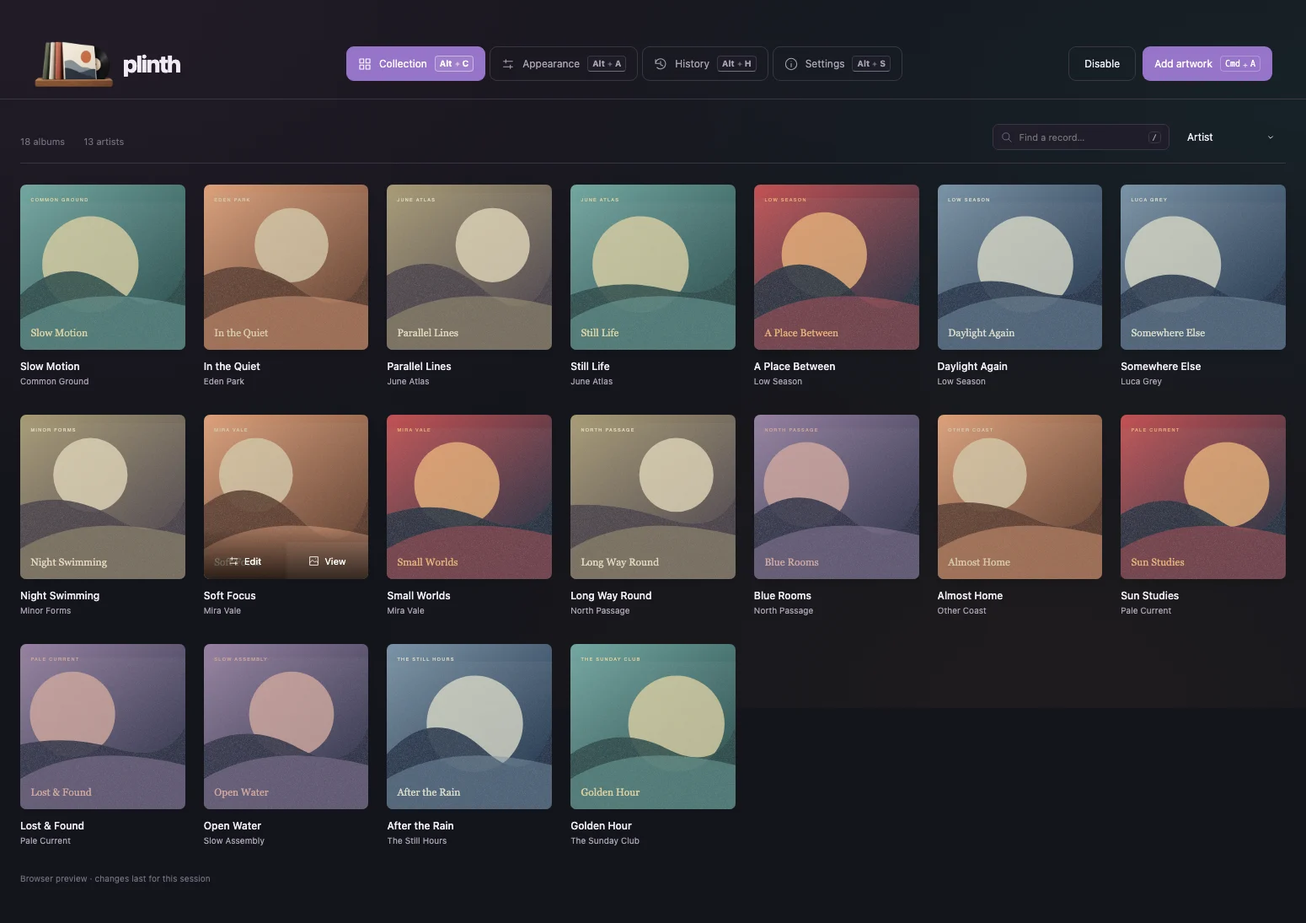
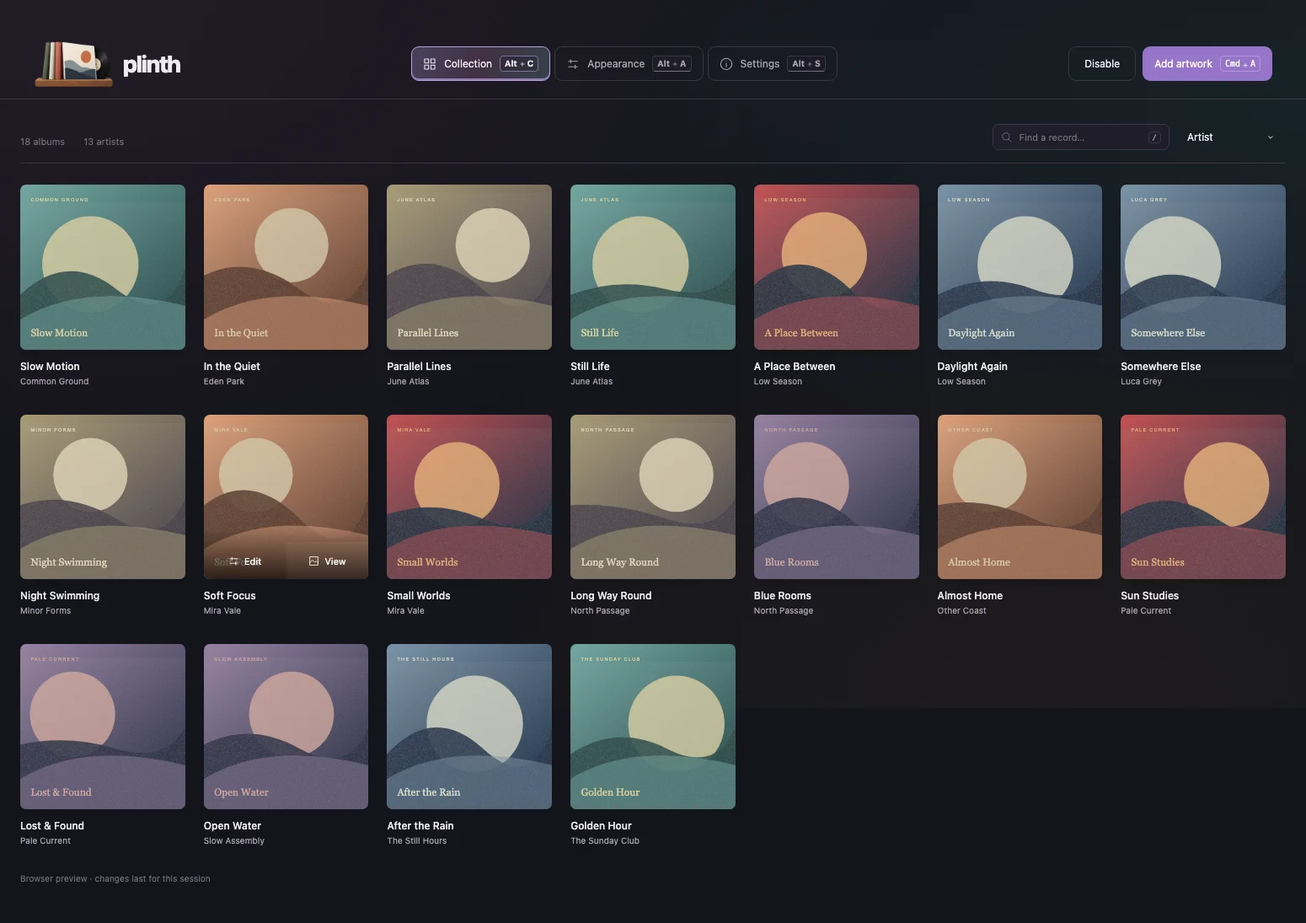
Move History into Settings and soften selected tabs with iridescent fill

Changed region(s): [[0.2477, 0.0311, 0.6813, 0.0932]]

diff --git a/src/app.css b/src/app.css
@@ -1,7 +1,7 @@
 *{box-sizing:border-box} :root{font-family:-apple-system,BlinkMacSystemFont,'Segoe UI',sans-serif;font-size:14px;color-scheme:dark;--background:radial-gradient(ellipse at 5% 0%,#58334d38,transparent 48%),radial-gradient(ellipse at 100% 15%,#28686829,transparent 44%),radial-gradient(ellipse at 80% 100%,#65482d21,transparent 48%),#14151c;--paper:#201d29e6;--paper-strong:#292531;--ink:#f0ebf3;--muted:#aaa1b3;--faint:#726d7e;--line:#3c3547;--accent:#b99ce7;--accent-bg:#9774c9;--danger:#ef9baa}
 :root[data-theme=light]{color-scheme:light;--background:radial-gradient(ellipse at 0% 0%,#efdce9,transparent 55%),radial-gradient(ellipse at 100% 10%,#dcefee,transparent 50%),#f7f5f3;--paper:#fffdfcd9;--paper-strong:#f0ebf1;--ink:#2b2632;--muted:#7f7387;--faint:#93899a;--line:#dfd6e4;--accent:#74509e;--accent-bg:#805ba9;--danger:#a94057}
 body{margin:0;background:var(--background);background-attachment:fixed;color:var(--ink);min-width:360px}button,input,select{font:inherit}button,select{cursor:pointer}button{display:inline-flex;align-items:center;justify-content:center;gap:9px;border:1px solid var(--line);border-radius:9px;background:transparent;color:var(--ink);padding:10px 14px;transition:background .15s,border-color .15s}button:hover:not(:disabled){background:var(--paper-strong);border-color:var(--faint)}button:disabled{opacity:.5;cursor:default}button.primary{background:var(--accent-bg);border-color:transparent;color:#fff}button.primary:hover:not(:disabled){background:color-mix(in srgb,var(--accent-bg) 85%,white)}button.icon-only{width:34px;height:34px;padding:7px;border-color:transparent;background:transparent}button.text-button{padding:0;border:0;color:var(--accent);background:none;font-size:12px}button:focus-visible,a:focus-visible,input:focus-visible,select:focus-visible{outline:1px solid var(--faint);outline-offset:2px}svg{display:block;flex:0 0 auto}h1,h2,h3,p{margin:0}h1{font-size:34px;font-weight:550;letter-spacing:-1.2px;line-height:1.3}h2{font-size:17px;font-weight:550;letter-spacing:-.3px}small{font-size:12px;color:var(--muted)}input,select{border:1px solid var(--line);background:var(--paper);color:var(--ink);border-radius:8px;padding:10px 12px;min-width:0}select{font-size:12px}label{display:grid;gap:8px;font-size:12px}a{color:inherit;text-decoration:none}kbd{font:10px ui-monospace,monospace;padding:3px 5px;border:1px solid var(--line);border-radius:4px;color:var(--muted)}kbd.shortcut{display:inline-flex;align-items:center;gap:3px;white-space:nowrap}.shortcut-plus{opacity:.75;transform:translateY(1.5px)}
-.titlebar{height:34px;padding:0 27px 0 86px;display:flex;align-items:center;justify-content:space-between;color:var(--faint);font-size:10px;letter-spacing:.2px;user-select:none}.local-indicator{display:flex;gap:6px;align-items:center}.local-indicator>span{width:4px;height:4px;border-radius:50%;background:#85b7a0}header{height:84px;border-bottom:1px solid var(--line);display:flex;align-items:center;justify-content:space-between;gap:24px;padding:0 40px}.header-actions{display:flex;align-items:stretch;gap:8px;flex-shrink:0}.header-actions>button{font-size:12px;padding:10px 13px}.brand{display:flex;align-items:center;gap:10px;font-size:28px;font-weight:760;letter-spacing:-1.4px}.brand-mark{--brand-logo-size:40px;display:flex;align-items:center;justify-content:center;flex-shrink:0;width:var(--brand-logo-size);height:40px}.brand-mark[data-logo="logo-1"]{--brand-logo-size:96px}.brand-mark[data-logo="logo-2"]{--brand-logo-size:72px;margin-right:-8px}.brand-mark svg{width:var(--brand-logo-size);height:var(--brand-logo-size);align-self:center}.version{font-size:9px;font-weight:400;letter-spacing:0;color:var(--faint);align-self:start;padding-top:6px}nav{display:flex;gap:5px}nav button{font-size:12px;border-color:var(--line);padding:10px 13px;color:var(--muted)}nav button:not(.active){background:transparent}nav button.active,nav button.active:hover:not(:disabled){background:var(--accent-bg);border-color:var(--accent-bg);color:#fff}nav button>svg{width:16px;height:16px}main{max-width:1440px;margin:0 auto;padding:40px 44px 0}.page-heading{display:flex;justify-content:space-between;align-items:center;gap:20px;margin-bottom:36px}.eyebrow{display:block;color:var(--faint);font-size:9px;letter-spacing:1.7px;font-weight:550;margin-bottom:10px}.page-heading p{margin-top:9px;font-size:13px;color:var(--muted);line-height:1.6}.status-pill{font-size:11px;border-radius:22px;padding:9px 13px;background:var(--paper);color:var(--muted);white-space:nowrap}.status-pill svg{width:12px;height:12px;margin-left:5px}.status-dot{width:6px;height:6px;border-radius:50%;background:#83c9ac;box-shadow:0 0 8px #83c9ac22}.paused .status-dot{background:var(--faint)}
+.titlebar{height:34px;padding:0 27px 0 86px;display:flex;align-items:center;justify-content:space-between;color:var(--faint);font-size:10px;letter-spacing:.2px;user-select:none}.local-indicator{display:flex;gap:6px;align-items:center}.local-indicator>span{width:4px;height:4px;border-radius:50%;background:#85b7a0}header{height:84px;border-bottom:1px solid var(--line);display:flex;align-items:center;justify-content:space-between;gap:24px;padding:0 40px}.header-actions{display:flex;align-items:stretch;gap:8px;flex-shrink:0}.header-actions>button{font-size:12px;padding:10px 13px}.brand{display:flex;align-items:center;gap:10px;font-size:28px;font-weight:760;letter-spacing:-1.4px}.brand-mark{--brand-logo-size:40px;display:flex;align-items:center;justify-content:center;flex-shrink:0;width:var(--brand-logo-size);height:40px}.brand-mark[data-logo="logo-1"]{--brand-logo-size:96px}.brand-mark[data-logo="logo-2"]{--brand-logo-size:72px;margin-right:-8px}.brand-mark svg{width:var(--brand-logo-size);height:var(--brand-logo-size);align-self:center}.version{font-size:9px;font-weight:400;letter-spacing:0;color:var(--faint);align-self:start;padding-top:6px}nav{display:flex;gap:5px}nav button{font-size:12px;border-color:var(--line);padding:10px 13px;color:var(--muted)}nav button:not(.active){background:transparent}nav button.active,nav button.active:hover:not(:disabled){background:linear-gradient(115deg,color-mix(in srgb,var(--accent) 28%,var(--paper)),color-mix(in srgb,#c882ab 20%,var(--paper)) 48%,color-mix(in srgb,#72bab5 24%,var(--paper)));border-color:var(--accent);color:var(--ink);box-shadow:inset 0 -2px 0 color-mix(in srgb,var(--accent) 65%,transparent)}nav button>svg{width:16px;height:16px}main{max-width:1440px;margin:0 auto;padding:40px 44px 0}.page-heading{display:flex;justify-content:space-between;align-items:center;gap:20px;margin-bottom:36px}.eyebrow{display:block;color:var(--faint);font-size:9px;letter-spacing:1.7px;font-weight:550;margin-bottom:10px}.page-heading p{margin-top:9px;font-size:13px;color:var(--muted);line-height:1.6}.status-pill{font-size:11px;border-radius:22px;padding:9px 13px;background:var(--paper);color:var(--muted);white-space:nowrap}.status-pill svg{width:12px;height:12px;margin-left:5px}.status-dot{width:6px;height:6px;border-radius:50%;background:#83c9ac;box-shadow:0 0 8px #83c9ac22}.paused .status-dot{background:var(--faint)}
 .collection-toolbar{display:flex;align-items:center;justify-content:space-between;gap:20px;border-bottom:1px solid var(--line);margin-bottom:25px;min-height:52px}.collection-tabs{display:flex;align-items:center;gap:22px;align-self:stretch}.collection-meta{display:flex;align-items:center;font-size:11px;color:var(--faint)}.toolbar-right{display:flex;gap:10px;align-items:center;padding-bottom:10px}.toolbar-right select{border-color:transparent;background:transparent;padding-right:5px}.search{display:flex;align-items:center;gap:8px;border:1px solid var(--line);background:var(--paper);border-radius:7px;padding:0 9px;color:var(--faint)}.search>svg{width:14px;height:14px}.search input{width:145px;border:0;background:none;padding:8px 0;font-size:11px}.search kbd{padding:1px 4px;font-size:9px}.album-grid{display:grid;grid-template-columns:repeat(6,minmax(0,1fr));gap:26px 22px}.album-card{min-width:0;position:relative}.artwork{display:block;position:relative;width:100%;padding:0;border:0;border-radius:7px;background:var(--paper-strong);aspect-ratio:1;box-shadow:0 5px 10px #0002;overflow:hidden;transition:transform .2s,box-shadow .2s}.album-edit:hover .artwork{box-shadow:0 8px 20px #0004}.artwork img{width:100%;height:100%;object-fit:cover;display:block}.album-edit{display:block;width:100%;padding:0;border:0;border-radius:0;text-align:left}.album-edit:hover:not(:disabled){background:transparent}.artwork-edit{position:absolute;bottom:0;left:0;width:50%;height:44px;color:#fff;font-size:11px;display:flex;gap:6px;align-items:center;justify-content:center;opacity:0;transition:opacity .2s;z-index:1}.artwork::after{content:"";position:absolute;inset:auto 0 0;height:60px;background:linear-gradient(transparent,#000b);opacity:0;transition:opacity .2s;pointer-events:none}.artwork-edit svg,.collection-view svg{width:13px;height:13px}.album-card:hover .artwork-edit,.album-card:focus-within .artwork-edit,.album-card:hover .artwork::after,.album-card:focus-within .artwork::after,.album-card:hover .collection-view,.album-card:focus-within .collection-view{opacity:1}.collection-artwork-actions{position:absolute;inset:0 0 auto;aspect-ratio:1;pointer-events:none}.collection-view{position:absolute;bottom:0;right:0;width:50%;height:44px;padding:0;border:0;border-radius:0 0 7px 0;color:#fff;font-size:11px;gap:6px;opacity:0;transition:opacity .2s;pointer-events:auto}.collection-view:hover:not(:disabled){background:#ffffff0d}.album-caption{display:block;min-width:0;padding:11px 0 8px}.album-title{display:block;font-size:12px;font-weight:500;letter-spacing:0;overflow:hidden;text-overflow:ellipsis;white-space:nowrap;line-height:1.5}.album-artist{display:block;color:var(--muted);font-size:10px;margin-top:2px;text-overflow:ellipsis;overflow:hidden;white-space:nowrap}.album-card.disabled img{opacity:.4}.hidden-label{position:absolute;top:8px;left:8px;border-radius:4px;background:#000b;padding:4px 6px;font-size:9px;color:white}.import-strip{display:flex;align-items:center;justify-content:space-between;gap:16px;margin-top:34px;padding:20px 22px;border:1px dashed var(--line);border-radius:10px}.import-copy{display:flex;align-items:center;gap:15px}.folder-mark{display:grid;place-items:center;width:34px;height:34px;border-radius:8px;background:var(--paper-strong);color:var(--accent)}.import-copy strong{font-size:12px;font-weight:500}.import-copy p{font-size:11px;color:var(--muted);margin-top:5px}.import-strip>button{font-size:11px;padding:8px 10px;white-space:nowrap}.import-strip>button svg{width:13px;height:13px}footer{display:flex;align-items:center;justify-content:space-between;gap:20px;padding:25px 0;color:var(--faint);font-size:10px}footer>span:first-child{display:flex;align-items:center;gap:7px}footer svg{width:14px;height:14px}
 .empty-state{min-height:370px;display:flex;flex-direction:column;align-items:center;justify-content:center;text-align:center;gap:18px}.empty-state .eyebrow{margin:0}.empty-state h2{font-size:25px}.empty-state p{font-size:13px;line-height:1.8;color:var(--muted)}.empty-art{width:64px;height:64px;background:var(--paper);border:1px solid var(--line);border-radius:16px;display:grid;place-items:center;color:var(--accent)}.empty-art svg{width:30px;height:30px}.actions{display:flex;gap:10px}.panel{background:var(--paper);border:1px solid var(--line);border-radius:13px;padding:24px}.panel-heading{display:flex;align-items:center;justify-content:space-between;margin-bottom:21px}.appearance-layout{display:grid;grid-template-columns:minmax(0,1.6fr) minmax(310px,1fr);gap:32px}.preview-column{position:sticky;top:25px;align-self:start}.section-label{display:flex;justify-content:space-between;color:var(--faint);font-size:9px;letter-spacing:1px;margin-bottom:16px}.section-label>span:last-child{letter-spacing:0}.monitor-preview{position:relative;border:6px solid #302c38;border-bottom-width:16px;border-radius:14px;background:radial-gradient(ellipse at 15% 10%,#735c6880,transparent 60%),linear-gradient(140deg,#253543,#202128 55%,#514e40);height:350px;overflow:hidden;box-shadow:0 16px 35px #0002}.preview-menubar{display:flex;gap:8px;align-items:center;font-size:7px;color:#ddd;background:#ffffff0a;height:15px;padding:0 7px}.preview-menubar svg{width:9px;height:9px}.preview-clock{margin-left:auto}.preview-art{display:grid;align-content:start;max-height:calc(100% - 15px);overflow:auto}.preview-art img{width:100%;aspect-ratio:1;object-fit:cover;transition:transform .2s;position:relative}.preview-art img:hover{transform:scale(var(--preview-scale));z-index:10}.preview-empty{font-size:12px;color:#bbb;grid-column:1/-1;padding:80px 0;text-align:center}.preview-dock{position:absolute;bottom:6px;left:50%;transform:translateX(-50%);display:flex;gap:6px;padding:5px 7px;border:1px solid #ffffff22;background:#ffffff18;border-radius:8px;backdrop-filter:blur(12px)}.preview-dock>span{display:block;width:18px;height:18px;border-radius:5px;background:#90b1be88}.preview-dock>span:nth-child(2){background:#b48caf88}.preview-dock>span:nth-child(3){background:#b9b19188}.preview-dock>span:nth-child(4){background:#91b9a988}.monitor-foot{width:100px;height:29px;background:linear-gradient(#302c38,#403b46);margin:0 auto;border-radius:0 0 12px 12px;clip-path:polygon(30% 0,70% 0,77% 82%,100% 90%,100% 100%,0 100%,0 90%,23% 82%)}.preview-note{color:var(--muted);font-size:11px;display:flex;align-items:center;justify-content:center;gap:8px;line-height:1.6;margin:22px 0}.preview-note svg{width:14px;height:14px}.feature-note{display:flex;gap:15px;border-top:1px solid var(--line);padding-top:25px;margin-top:32px;color:var(--muted)}.feature-note>svg{color:var(--accent)}.feature-note strong{font-size:12px;font-weight:500;color:var(--ink)}.feature-note p{font-size:12px;line-height:1.8;margin-top:8px;max-width:390px}.segmented{display:flex;border:1px solid var(--line);border-radius:8px;padding:3px;gap:3px;margin-bottom:9px}.segmented button{flex:1;padding:7px 4px;font-size:11px;border:0;border-radius:5px;color:var(--muted)}.segmented button.chosen{background:var(--paper-strong);color:var(--ink)}.field-note{font-size:11px;color:var(--muted);line-height:1.7}.slider-field{margin-top:20px;gap:9px}.slider-field>span{display:flex;justify-content:space-between;font-size:12px}.slider-field output{font:11px ui-monospace,monospace;color:var(--muted)}input[type=range]{width:100%;height:4px;margin:5px 0;padding:0;accent-color:var(--accent);cursor:pointer}.toggle-row{display:flex;align-items:center;justify-content:space-between;gap:20px;margin-top:22px;font-size:12px}.toggle-row small{display:block;font-size:10px;color:var(--muted);margin-top:6px}.switch{appearance:none;flex:0 0 auto;width:32px;height:19px;border-radius:20px;padding:0;background:var(--line);border:0;position:relative;cursor:pointer}.switch:after{content:'';display:block;width:13px;height:13px;border-radius:50%;background:#fff;position:absolute;top:3px;left:3px;transition:transform .15s}.switch:checked{background:var(--accent-bg)}.switch:checked:after{transform:translateX(13px)}.control-divider{border-top:1px solid var(--line);margin-top:26px}.settings-grid{display:grid;grid-template-columns:1fr 1fr;gap:22px}.settings-panel h2{margin-bottom:12px;font-size:20px}.settings-panel>p.description{font-size:13px;line-height:1.85;color:var(--muted);margin-bottom:24px}.setting-row{display:flex;align-items:center;justify-content:space-between;gap:16px;margin:25px 0}.setting-row select{max-width:60%}.storage-summary{display:flex;gap:45px;margin:24px 0 30px;color:var(--muted);font-size:11px}.storage-summary strong{display:block;font-size:30px;color:var(--ink);font-weight:500;letter-spacing:-1px;margin-bottom:6px}.settings-panel>button{font-size:12px;margin-bottom:15px}.shortcut-row{border-top:1px solid var(--line);padding-top:16px;margin-bottom:20px;display:flex;align-items:center;justify-content:space-between;font-size:12px}
 .banner{margin:15px 44px 0;border:1px solid #cf739066;border-radius:8px;padding:10px 14px;font-size:12px;display:flex;align-items:center;justify-content:space-between;gap:16px}.banner.error{color:var(--danger);background:var(--paper)}.banner>span{white-space:pre-wrap;max-height:140px;overflow:auto}.toast{position:fixed;bottom:24px;left:50%;transform:translateX(-50%);z-index:80;padding:13px 18px;border:1px solid var(--line);border-radius:10px;background:var(--paper-strong);box-shadow:0 10px 40px #0004;display:flex;align-items:center;gap:10px;font-size:12px;max-width:90vw}.toast svg{color:#83c9ac}.drop-overlay{position:fixed;inset:8px;z-index:100;border:2px dashed var(--accent);border-radius:15px;background:#211c2bed;backdrop-filter:blur(15px);display:flex;flex-direction:column;align-items:center;justify-content:center;gap:22px;pointer-events:none}.drop-overlay>svg{width:45px;height:45px;color:var(--accent)}.drop-overlay p{color:var(--muted)}.import-progress{position:fixed;bottom:25px;left:50%;transform:translateX(-50%);z-index:90;background:var(--paper-strong);border:1px solid var(--line);border-radius:10px;padding:15px 22px;font-size:12px;display:flex;gap:12px;align-items:center}.import-progress>span{width:13px;height:13px;border-radius:50%;border:2px solid var(--line);border-top-color:var(--accent);animation:spin 1s linear infinite}@keyframes spin{to{transform:rotate(360deg)}}.visually-hidden{position:absolute;width:1px;height:1px;clip-path:inset(50%);overflow:hidden;white-space:nowrap}
@@ -47,4 +47,6 @@ dialog{width:min(510px,calc(100vw - 40px));padding:26px;border:1px solid var(--l
 /* Isolate the enlarged preview artwork without promoting the entire collection. */
 .preview-render .desktop-cover.enlarged{will-change:transform}
 
-nav button .shortcut{min-width:30px;padding:0 5px;border-bottom-color:var(--faint);background:color-mix(in srgb,var(--paper) 72%,transparent);font-family:inherit;font-size:10px;font-weight:700;line-height:17px;justify-content:center}nav button.active .shortcut{border-color:#ffffff70;background:#ffffff14;color:inherit}nav button .shortcut-plus{transform:none}@media(max-width:1100px){header{flex-wrap:wrap;height:auto;padding-block:18px}header nav{order:3;width:100%;justify-content:center}}@media(max-width:600px){header nav{flex-wrap:wrap}nav button{padding:8px}}
+nav button .shortcut{min-width:30px;padding:0 5px;border-bottom-color:var(--faint);background:color-mix(in srgb,var(--paper) 72%,transparent);font-family:inherit;font-size:10px;font-weight:700;line-height:17px;justify-content:center}nav button.active .shortcut{border-color:color-mix(in srgb,var(--accent) 55%,var(--line));background:color-mix(in srgb,var(--paper) 40%,transparent);color:inherit}nav button .shortcut-plus{transform:none}@media(max-width:1100px){header{flex-wrap:wrap;height:auto;padding-block:18px}header nav{order:3;width:100%;justify-content:center}}@media(max-width:600px){header nav{flex-wrap:wrap}nav button{padding:8px}}
+
+.history-back{max-width:1000px;margin:0 auto 16px}.history-back button{font-size:12px;padding:8px 10px}

diff --git a/src/App.svelte b/src/App.svelte
@@ -19,7 +19,7 @@
  let sortOpen=false
  const sortOptions=[{value:'artist',label:'Artist'},{value:'title',label:'Title'},{value:'date',label:'Newest date'},{value:'oldest',label:'Oldest date'},{value:'shuffle',label:'Shuffle'}]
  function chooseSort(value:string){library.settings.sort=value;if(value==='shuffle'){const next=new Uint32Array(1);do{crypto.getRandomValues(next)}while(next[0]===library.settings.shuffleSeed);library.settings.shuffleSeed=next[0]}sortOpen=false;persist()}
- const tabs=[{id:'collection',label:'Collection',icon:'grid',key:'C'},{id:'appearance',label:'Appearance',icon:'settings',key:'A'},{id:'history',label:'History',icon:'history',key:'H'},{id:'settings',label:'Settings',icon:'info',key:'S'}]
+ const tabs=[{id:'collection',label:'Collection',icon:'grid',key:'C'},{id:'appearance',label:'Appearance',icon:'settings',key:'A'},{id:'settings',label:'Settings',icon:'info',key:'S'}]
  let page='collection',query='',busy=false,loaded=false,error='',notice='',dragging=false
  let history:HistoryView=emptyHistory,historyBusy=false,historyLoading=false
  let historyRequest=0
@@ -171,7 +171,7 @@
 </script>
 
  <svelte:head><link rel="icon" type="image/png" href={logoUrl(settings.logo)}/><link rel="apple-touch-icon" href={logoUrl(settings.logo)}/></svelte:head>
- <svelte:window onpointerup={stopHoverPreview} onpointercancel={stopHoverPreview} onblur={stopHoverPreview} onpointerdown={(e)=>{beginAppearanceDrag(e);if(!(e.target instanceof Element)||!e.target.closest('.sort-picker'))sortOpen=false}} onkeydown={(e)=>{if(desktop)return;if(quitDialog?.open){if(e.repeat){e.preventDefault();return}if((e.metaKey||e.ctrlKey)&&e.key.toLowerCase()==='q'){e.preventDefault();void quitApp()}else if((e.metaKey||e.ctrlKey)&&e.key.toLowerCase()==='w'){e.preventDefault();void hideWindow()}else if(e.key==='Escape'){e.preventDefault();quitDialog.close()}return}if(e.repeat&&(e.metaKey||e.ctrlKey)&&e.key.toLowerCase()==='q'){e.preventDefault();return}if(e.key==='Escape'&&sortOpen){sortOpen=false;return}if(e.altKey&&!e.metaKey&&!e.ctrlKey&&!e.shiftKey&&!e.isComposing&&!editingText(e.target)&&!modal?.open&&!gallery?.open){const tab=tabs.find(tab=>e.code==='Key'+tab.key);if(tab){e.preventDefault();sortOpen=false;page=tab.id;return}}if(e.altKey&&!e.metaKey&&!e.ctrlKey&&(e.code==='KeyQ'||e.code==='KeyW')){if(modal?.open||quitDialog?.open)return;e.preventDefault();const pages=['collection','appearance','history','settings'];page=pages[(pages.indexOf(page)+(e.code==='KeyQ'?-1:1)+pages.length)%pages.length];return}if((e.metaKey||e.ctrlKey)&&e.key.toLowerCase()==='q'){e.preventDefault();showQuit();return}if((e.metaKey||e.ctrlKey)&&e.key.toLowerCase()==='w'){e.preventDefault();void hideWindow();return}if(gallery?.open){if(e.key==='Escape'){e.preventDefault();closeGallery()}return}if(modal?.open&&e.key==='Enter'&&!e.isComposing&&!e.metaKey&&!e.ctrlKey&&!e.altKey&&!e.shiftKey&&!confirmRemove){e.preventDefault();if(!e.repeat&&!saving&&!replacing)editorForm.requestSubmit();return}if((e.metaKey||e.ctrlKey)&&!e.altKey&&e.key.toLowerCase()==='z'&&!modal?.open&&!editingText(e.target)){e.preventDefault();if(!e.repeat)void moveHistory(e.shiftKey?'redo':'undo');return}if((e.metaKey||e.ctrlKey)&&e.key.toLowerCase()==='a'&&page==='collection'&&!modal?.open&&!(e.target instanceof Element&&e.target.closest('input,textarea,[contenteditable]'))){e.preventDefault();if(!e.repeat&&!busy)void choose();return}if(e.key==='/' && !(e.target instanceof HTMLInputElement) && !(e.target instanceof HTMLSelectElement)){e.preventDefault();document.querySelector<HTMLInputElement>('.search input')?.focus()}if((e.metaKey||e.ctrlKey)&&e.key==='o'){e.preventDefault();void choose()}if(e.key==='Escape'){if(quitDialog?.open)quitDialog.close();else closeEditor()}}}/>
+ <svelte:window onpointerup={stopHoverPreview} onpointercancel={stopHoverPreview} onblur={stopHoverPreview} onpointerdown={(e)=>{beginAppearanceDrag(e);if(!(e.target instanceof Element)||!e.target.closest('.sort-picker'))sortOpen=false}} onkeydown={(e)=>{if(desktop)return;if(quitDialog?.open){if(e.repeat){e.preventDefault();return}if((e.metaKey||e.ctrlKey)&&e.key.toLowerCase()==='q'){e.preventDefault();void quitApp()}else if((e.metaKey||e.ctrlKey)&&e.key.toLowerCase()==='w'){e.preventDefault();void hideWindow()}else if(e.key==='Escape'){e.preventDefault();quitDialog.close()}return}if(e.repeat&&(e.metaKey||e.ctrlKey)&&e.key.toLowerCase()==='q'){e.preventDefault();return}if(e.key==='Escape'&&sortOpen){sortOpen=false;return}if(e.altKey&&!e.metaKey&&!e.ctrlKey&&!e.shiftKey&&!e.isComposing&&!editingText(e.target)&&!modal?.open&&!gallery?.open){const tab=tabs.find(tab=>e.code==='Key'+tab.key);if(tab){e.preventDefault();sortOpen=false;page=tab.id;return}}if(e.altKey&&!e.metaKey&&!e.ctrlKey&&(e.code==='KeyQ'||e.code==='KeyW')){if(modal?.open||quitDialog?.open)return;e.preventDefault();const pages=tabs.map(tab=>tab.id);page=pages[(pages.indexOf(page==='history'?'settings':page)+(e.code==='KeyQ'?-1:1)+pages.length)%pages.length];return}if((e.metaKey||e.ctrlKey)&&e.key.toLowerCase()==='q'){e.preventDefault();showQuit();return}if((e.metaKey||e.ctrlKey)&&e.key.toLowerCase()==='w'){e.preventDefault();void hideWindow();return}if(gallery?.open){if(e.key==='Escape'){e.preventDefault();closeGallery()}return}if(modal?.open&&e.key==='Enter'&&!e.isComposing&&!e.metaKey&&!e.ctrlKey&&!e.altKey&&!e.shiftKey&&!confirmRemove){e.preventDefault();if(!e.repeat&&!saving&&!replacing)editorForm.requestSubmit();return}if((e.metaKey||e.ctrlKey)&&!e.altKey&&e.key.toLowerCase()==='z'&&!modal?.open&&!editingText(e.target)){e.preventDefault();if(!e.repeat)void moveHistory(e.shiftKey?'redo':'undo');return}if((e.metaKey||e.ctrlKey)&&e.key.toLowerCase()==='a'&&page==='collection'&&!modal?.open&&!(e.target instanceof Element&&e.target.closest('input,textarea,[contenteditable]'))){e.preventDefault();if(!e.repeat&&!busy)void choose();return}if(e.key==='/' && !(e.target instanceof HTMLInputElement) && !(e.target instanceof HTMLSelectElement)){e.preventDefault();document.querySelector<HTMLInputElement>('.search input')?.focus()}if((e.metaKey||e.ctrlKey)&&e.key==='o'){e.preventDefault();void choose()}if(e.key==='Escape'){if(quitDialog?.open)quitDialog.close();else closeEditor()}}}/>
 {#if desktop}
  <Desktop {library}/>
 {:else}
@@ -182,7 +182,7 @@
    <a class="brand" href="/" onclick={(e)=>{e.preventDefault();page='collection'}}><span class="brand-mark" data-logo={settings.logo}><Logo logo={settings.logo}/></span>plinth</a>
    <nav aria-label="Main navigation">
     {#each tabs as tab}
-     <button class:active={page===tab.id} aria-current={page===tab.id?'page':undefined} title={tab.label+' (Alt+'+tab.key+')'} aria-keyshortcuts={'Alt+'+tab.key} onclick={()=>page=tab.id}><Icon name={tab.icon}/><span>{tab.label}</span><Shortcut keys={['Alt',tab.key]}/></button>
+     <button class:active={(page==='history'?'settings':page)===tab.id} aria-current={(page==='history'?'settings':page)===tab.id?'page':undefined} title={tab.label+' (Alt+'+tab.key+')'} aria-keyshortcuts={'Alt+'+tab.key} onclick={()=>page=tab.id}><Icon name={tab.icon}/><span>{tab.label}</span><Shortcut keys={['Alt',tab.key]}/></button>
     {/each}
    </nav>
    <div class="header-actions"><button class="desktop-toggle" onclick={()=>{settings.desktopEnabled=!settings.desktopEnabled;persist()}}>{settings.desktopEnabled?'Disable':'Enable'}</button><button class="primary add-artwork" aria-label={busy?'Importing…':'Add artwork'} aria-keyshortcuts={page==='collection'?'Meta+A Control+A':undefined} onclick={()=>choose()} disabled={busy}>{busy?'Importing…':'Add artwork'}{#if page==='collection'&&!busy}<Shortcut keys={['Cmd','A']}/>{/if}</button></div>
@@ -211,6 +211,7 @@
     {/if}{/each}
     <div class="control-divider"></div><label class="toggle-row"><span>Enlarge on hover</span><input class="switch" type="checkbox" bind:checked={settings.hoverEnabled} onchange={persist}/></label><label class="toggle-row"><span>While another app has focus</span><input class="switch" type="checkbox" disabled={!settings.hoverEnabled} bind:checked={settings.hoverInBackground} onchange={persist}/></label><label class="slider-field"><span>Hover size<output>{settings.hoverScale.toFixed(1)}×</output></span><input aria-label="Hover size" onpointerdown={startHoverPreview} onlostpointercapture={stopHoverPreview} type="range" min="1" max="3" step=".1" bind:value={settings.hoverScale} oninput={persist}/></label><label class="slider-field"><span>Hover speed<output>{(settings.hoverSpeed??1).toFixed(2).replace(/0$/,'')}×</output></span><input aria-label="Hover speed" onpointerdown={startHoverPreview} onlostpointercapture={stopHoverPreview} type="range" min=".25" max="3" step=".25" bind:value={settings.hoverSpeed} oninput={persist}/></label></section></div>
    {:else if page==='history'}
+    <div class="history-back"><button onclick={()=>page='settings'}><svg width="14" height="14" viewBox="0 0 24 24" fill="none" stroke="currentColor" stroke-width="1.8" aria-hidden="true"><path d="m14 6-6 6 6 6"/></svg>Back to Settings</button></div>
     <History {history} busy={historyBusy||busy} loading={historyLoading} undo={()=>void moveHistory('undo')} redo={()=>void moveHistory('redo')} restore={(id)=>void moveHistory('restore',id)}/>
    {:else}
     <section class="panel settings-compact" aria-label="Settings">
@@ -222,6 +223,7 @@
      </div></div>
      <label class="setting-row"><span>Clicking an album</span><select aria-label="Clicking an album" bind:value={settings.openMode} onchange={persist}><option value="library">Apple Music library</option><option value="link">Open saved album link</option></select></label>
      <label class="setting-row"><span>Show artwork on the desktop</span><input class="switch" type="checkbox" bind:checked={settings.desktopEnabled} onchange={persist}/></label>
+     <div class="setting-row"><span>Saved changes</span><button onclick={()=>page='history'}><Icon name="history"/>History</button></div>
      <div class="setting-row"><span>Local storage</span><button disabled={!api.native} onclick={()=>invoke('reveal_data').catch(e=>error=String(e))}><Icon name="folder"/>Open folder</button></div>
     </section>
    {/if}

diff --git a/tests/history.spec.ts b/tests/history.spec.ts
@@ -1,11 +1,11 @@
 import { test, expect } from '@playwright/test'
 import { createRequire } from 'node:module'
 const sharp:typeof import('sharp').default=createRequire(import.meta.url)('sharp')
-const historyPage=async(page:import('@playwright/test').Page)=>{await page.getByRole('button',{name:'History',exact:true}).click();await expect(page.locator('.history-list')).toBeVisible()}
+const historyPage=async(page:import('@playwright/test').Page)=>{await page.getByRole('button',{name:'Settings',exact:true}).click();await page.getByRole('button',{name:'History',exact:true}).click();await expect(page.locator('.history-list')).toBeVisible()}
 
-test('History sits between Appearance and Settings and saves full metadata states',async({page})=>{
+test('History opens from Settings and saves full metadata states',async({page})=>{
  await page.goto('/?demo=1')
- await expect(page.getByRole('navigation',{name:'Main navigation'}).getByRole('button').locator(':scope > span')).toHaveText(['Collection','Appearance','History','Settings'])
+ await expect(page.getByRole('navigation',{name:'Main navigation'}).getByRole('button').locator(':scope > span')).toHaveText(['Collection','Appearance','Settings'])
  await historyPage(page)
  await expect(page.locator('.history-list>li')).toHaveCount(1)
  await expect(page.getByRole('button',{name:'Undo',exact:true})).toBeDisabled()
@@ -108,8 +108,8 @@ test('text undo and modal shortcuts do not navigate saved history',async({page})
  await expect(page.locator('.album-dialog')).toBeVisible()
  await page.keyboard.press('Escape');await historyPage(page)
  await expect(page.locator('.history-list>li')).toHaveCount(2)
- await page.keyboard.press('Alt+KeyW');await expect(page.getByRole('group',{name:'App appearance'})).toBeVisible()
- await page.keyboard.press('Alt+KeyQ');await expect(page.locator('.history-list')).toBeVisible()
+ await expect(page.getByRole('navigation').getByRole('button',{name:'Settings',exact:true})).toHaveAttribute('aria-current','page');await page.getByRole('button',{name:'Back to Settings',exact:true}).click();await expect(page.getByRole('group',{name:'App appearance'})).toBeVisible()
+ await historyPage(page);await page.keyboard.press('Alt+KeyQ');await expect(page.locator('.appearance-layout')).toBeVisible();await page.keyboard.press('Alt+KeyW');await expect(page.getByRole('group',{name:'App appearance'})).toBeVisible()
 })
 
 

diff --git a/tests/appearance-drag.spec.ts b/tests/appearance-drag.spec.ts
@@ -15,7 +15,7 @@ test('pauses during a held appearance slider create one saved history state',asy
   await page.waitForTimeout(180)
  }
  await page.mouse.up();await page.waitForTimeout(180)
- await page.getByRole('button',{name:'History',exact:true}).click()
+ await page.getByRole('button',{name:'Settings',exact:true}).click();await page.getByRole('button',{name:'History',exact:true}).click()
  await expect(page.locator('.history-list>li')).toHaveCount(2)
  await expect(page.locator('.history-list')).toContainText('Space between covers: 6 → 30')
 })
@@ -24,7 +24,7 @@ for(const event of ['blur','pointercancel'])test(`${event} commits the final app
  const slider=await start(page);await slider.fill('17');await page.waitForTimeout(180)
  await page.evaluate(type=>window.dispatchEvent(new Event(type)),event)
  await page.waitForTimeout(180);await page.mouse.up()
- await page.getByRole('button',{name:'History',exact:true}).click()
+ await page.getByRole('button',{name:'Settings',exact:true}).click();await page.getByRole('button',{name:'History',exact:true}).click()
  await expect(page.locator('.history-list>li')).toHaveCount(2)
  await expect(page.locator('.history-list')).toContainText('Space between covers: 6 → 17')
 })
@@ -39,7 +39,7 @@ test('keyboard range edits still save without a pointer drag',async({page})=>{
  await page.goto('/?demo=1');await page.getByRole('button',{name:'Appearance',exact:true}).click()
  const slider=page.getByRole('slider',{name:'Space between covers',exact:true})
  await slider.focus();await page.keyboard.press('ArrowRight');await page.waitForTimeout(180)
- await page.getByRole('button',{name:'History',exact:true}).click()
+ await page.getByRole('button',{name:'Settings',exact:true}).click();await page.getByRole('button',{name:'History',exact:true}).click()
  await expect(page.locator('.history-list>li')).toHaveCount(2)
  await expect(page.locator('.history-list')).toContainText('Space between covers: 6 → 7')
 })

diff --git a/tests/hover-size.spec.ts b/tests/hover-size.spec.ts
@@ -61,7 +61,7 @@ test('hover speed is saved in history and corners animate with scale',async({pag
  const returning=await cover.evaluate(el=>parseFloat(getComputedStyle(el).borderRadius))
  expect(returning).toBeGreaterThan(3);expect(returning).toBeLessThan(17)
  await page.clock.runFor(600);await expect(cover).toHaveCSS('border-radius','20px')
- await page.getByRole('button',{name:'History',exact:true}).click()
+ await page.getByRole('button',{name:'Settings',exact:true}).click();await page.getByRole('button',{name:'History',exact:true}).click()
  await expect(page.locator('.history-list')).toContainText('Hover speed: 1 → 0.25')
 })
 
@@ -99,6 +99,6 @@ test('rounded corners on hover default off and restore independently for each di
  await expect(toggle).not.toBeChecked()
  await page.getByRole('button',{name:/Mac display/}).click()
  await expect(toggle).toBeChecked()
- await page.getByRole('button',{name:'History',exact:true}).click()
+ await page.getByRole('button',{name:'Settings',exact:true}).click();await page.getByRole('button',{name:'History',exact:true}).click()
  await expect(page.locator('.history-list')).toContainText('Rounded corners when hovered: Off → On')
 })

diff --git a/tests/spaces.spec.ts b/tests/spaces.spec.ts
@@ -15,7 +15,7 @@ test('Spaces buttons include 1–3, remember the selection, and support undo and
  await expect(group.getByRole('button',{pressed:true})).toHaveAccessibleName('Space 3')
  await page.keyboard.press('Meta+z');await expect(group.getByRole('button',{pressed:true})).toHaveAccessibleName('Space 2')
  await page.keyboard.press('Meta+Shift+z');await expect(group.getByRole('button',{pressed:true})).toHaveAccessibleName('Space 3')
- await page.getByRole('button',{name:'History',exact:true}).click()
+ await page.getByRole('button',{name:'Settings',exact:true}).click();await page.getByRole('button',{name:'History',exact:true}).click()
  await expect(page.locator('.history-list')).toContainText('Spaces: Space 2 → Space 3')
  await page.getByRole('button',{name:'Appearance',exact:true}).click()
  await group.getByRole('button',{name:'All Spaces',exact:true}).click()

diff --git a/tests/tab-shortcuts.spec.ts b/tests/tab-shortcuts.spec.ts
@@ -4,7 +4,7 @@ test('tab shortcuts use physical letters and respect text fields, modifiers and 
  await page.goto('/?demo=1')
  const nav=page.getByRole('navigation',{name:'Main navigation'})
  const active=(name:string)=>expect(nav.getByRole('button',{name,exact:true})).toHaveClass('active')
- for(const [name,key] of [['Appearance','A'],['History','H'],['Settings','S'],['Collection','C']]){
+ for(const [name,key] of [['Appearance','A'],['Settings','S'],['Collection','C']]){
   const button=nav.getByRole('button',{name,exact:true})
   await expect(button).toHaveAttribute('aria-keyshortcuts','Alt+'+key)
   await expect(button.locator('kbd')).toBeVisible()

diff --git a/tests/screenshots.spec.ts b/tests/screenshots.spec.ts
@@ -45,7 +45,7 @@ test('README screenshots use only synthetic demo artwork',async({page})=>{
  await page.getByRole('button',{name:'Save',exact:true}).click()
  await page.evaluate(()=>{Date.now=()=>Date.UTC(2026,8,10,17,18)})
  await page.getByRole('button',{name:'Disable',exact:true}).click()
- await page.getByRole('button',{name:'History',exact:true}).click()
+ await page.getByRole('button',{name:'Settings',exact:true}).click();await page.getByRole('button',{name:'History',exact:true}).click()
  await expect(page.locator('.history-list>li')).toHaveCount(3)
  await page.locator('.history-list summary').click()
  await page.mouse.move(0,0)

diff --git a/README.md b/README.md
@@ -13,7 +13,7 @@ Plinth is a macOS menu bar app that turns your album artwork into an interactive
 - **Keep your music close.** Click a desktop cover to reveal its album in Apple Music, or open its saved HTTPS link. Edit titles, artists, release dates, links, and desktop visibility in the collection. The editor shows large original artwork, with Finder and upload controls that fade in on hover; drop a single image onto it to replace it. Click the artwork to view it nearly full screen, then click anywhere, including the artwork, or press Escape to return to the editor. The folder button reveals the original in Finder; the upload button replaces it. Open in Music has a padded button, and Save also responds to Enter anywhere in the editor. The collection and desktop use optimized copies.
 - **Hover without switching apps.** Hover speed adjusts enlargement and shrinking from 0.25× to 3×, with rounded corners animating alongside the size. Hold the Hover size slider to preview a randomly selected album at the chosen enlargement; release to return it to normal. Native macOS pointer tracking enlarges covers over exposed desktop areas while another app retains focus. Turn off **While another app has focus**, beneath **Enlarge on hover**, to limit enlargement to when Plinth or Finder is active. Covers stay behind normal windows; moving over another window clears the hover.
 - **Stay in the menu bar.** Plinth appears in the Dock while its window is open. Closing the window or pressing Command-W hides it and keeps the desktop running. Command-Q opens a dialog with Cancel (Escape), Hide window (Command-W) in the middle, and Quit Plinth (Command-Q). No action is selected by default; Return does nothing until you focus a button. Left-click the menu bar icon to open Plinth. Right-click for Open Plinth, Hide desktop / Show desktop, and Quit Plinth.
-- **Revisit every saved change.** History sits between Appearance and Settings. Undo with Command-Z, redo with Shift-Command-Z, or restore any listed state. Imports, removals, metadata, artwork replacements, appearance, and app settings are included. Each entry shows when it was saved and what changed. New edits after undo keep the abandoned states available to restore. Text fields keep their normal text undo.
+- **Revisit every saved change.** Open History from Settings → Saved changes. Undo with Command-Z, redo with Shift-Command-Z, or restore any listed state. Imports, removals, metadata, artwork replacements, appearance, and app settings are included. Each entry shows when it was saved and what changed. New edits after undo keep the abandoned states available to restore. Text fields keep their normal text undo.
 - **Keep everything local.** No account, cloud service, analytics, or encryption setup. The production app does not run an HTTP server or depend on Plash or Python.
 
 ![Live appearance controls](docs/screenshots/appearance.webp)
@@ -42,7 +42,7 @@ Space between rows defaults to **Auto**, which balances the gap below the menu b
 
 The desktop is a transparent native window above the wallpaper and desktop icons, below ordinary windows. It receives clicks and does not scroll. Cover width and height use the same calculated size, so increasing cover spacing shrinks square covers. Incomplete rows are centered; use the Columns setting to fit more covers on screen. Covers enlarge without activating Plinth; this does not draw over your foreground apps. Restart Plinth after changing monitor arrangements. Add Plinth in **System Settings → General → Login Items** if you want it to start at login.
 
-Alt-C, Alt-A, Alt-H, and Alt-S open Collection, Appearance, History, and Settings (use Option on Mac). The tab buttons show these shortcuts. Option-Q and Option-W move to the previous or next page, wrapping at either end. Window size is remembered when you close or quit; new installations open at 1550 × 840 points.
+Alt-C, Alt-A, and Alt-S open Collection, Appearance, and Settings (use Option on Mac). The tab buttons show these shortcuts. Option-Q and Option-W move to the previous or next page, wrapping at either end. Window size is remembered when you close or quit; new installations open at 1550 × 840 points.
 
 ## Local data and backups
 

diff --git a/AGENTS.md b/AGENTS.md
@@ -31,12 +31,12 @@
 - Show a Dock icon while the main window is visible; hide it when the window closes. Command-W keeps the desktop running. Command-Q opens a Cancel / Hide window / Quit Plinth modal, with Hide window in the middle. Focus the heading initially, not an action; use no default button or purple focus outline.
 - Left-click the menu bar icon opens the window; right-click opens its menu. Keep “Hide desktop” / “Show desktop” in the menu. In the app header, place an Enable / Disable button immediately before Add artwork, synchronized to the same saved desktop state.
 - Original artwork in the modal is large, with two subtle hover actions across its bottom edge. Disable dragging internal images; accept external image drops.
-- Selected top tabs use a solid accent fill with white text and icons in both themes. Unselected top tabs have visible outlines and transparent backgrounds, including on hover. Top tabs show compact bordered Alt shortcut badges using the shared Shortcut component: C for Collection, A for Appearance, H for History, S for Settings. Use physical key codes for macOS Option compatibility and leave text fields and open dialogs alone. Option-Q / Option-W navigate pages with wraparound. Remember the main window size; keep the collection full-width with modest gutters.
+- Selected top tabs use a soft iridescent lavender/pink/teal fill, accent border and inset bottom edge, with normal text in both themes. Unselected top tabs have visible outlines and transparent backgrounds, including on hover. Top tabs show compact bordered Alt shortcut badges using the shared Shortcut component: C for Collection, A for Appearance, S for Settings. Use physical key codes for macOS Option compatibility and leave text fields and open dialogs alone. Option-Q / Option-W navigate pages with wraparound. Remember the main window size; keep the collection full-width with modest gutters.
 
 - Collection cards edit from artwork, captions, and caption spacing; bottom artwork actions are Edit and View. View opens the original gallery directly. Keep the gallery cursor normal and return to the prior view on any click (including the image) or Escape.
 - Command-A adds artwork from Collection except inside text fields. Add artwork shows a Cmd + A hint on Collection, with an SVG plus between the keys and no leading icon. Build every keyboard hint with the shared `Shortcut` component, which renders each key with an SVG plus between them. Enter saves anywhere in the album editor; preserve gallery and quit-dialog keyboard behavior. Label the button Save with an Enter hint.
 
-- History sits between Appearance and Settings. Record every saved library mutation through `library::save`; active data and history must remain in one atomic `library.json` write. Preserve abandoned states and retained artwork, and apply native desktop/branding/menu effects when restoring. Command-Z / Shift-Command-Z navigate saved states outside text fields and modals.
+- History opens from Settings → Saved changes, with a Back to Settings button. Keep Settings selected while viewing History; page cycling follows the three top tabs. Record every saved library mutation through `library::save`; active data and history must remain in one atomic `library.json` write. Preserve abandoned states and retained artwork, and apply native desktop/branding/menu effects when restoring. Command-Z / Shift-Command-Z navigate saved states outside text fields and modals.
 - Row spacing defaults to Auto (`rowGap: null`), balancing clearance below the menu bar with clearance below the last row. Share the geometry between desktop and preview; preserve saved numeric overrides. Do not reintroduce artwork opacity or surrounding-cover dimming.
 - Spaces uses a row of All Spaces, This Space, 1, 2, 3 buttons. Numbered desktops follow Mission Control order (excluding full-screen apps), and unavailable options are disabled. Preserve `allSpaces` migration, `targetSpace` history, nonactivating placement, and existing desktop windows on placement failure. Verify native changes with the isolated `space-placement` example.
 
